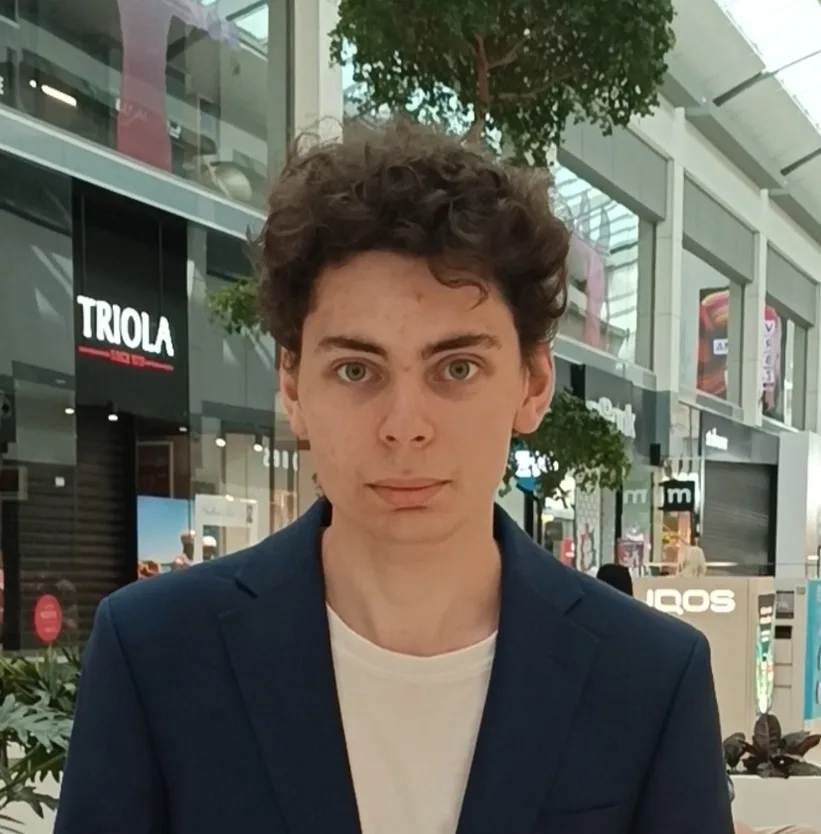
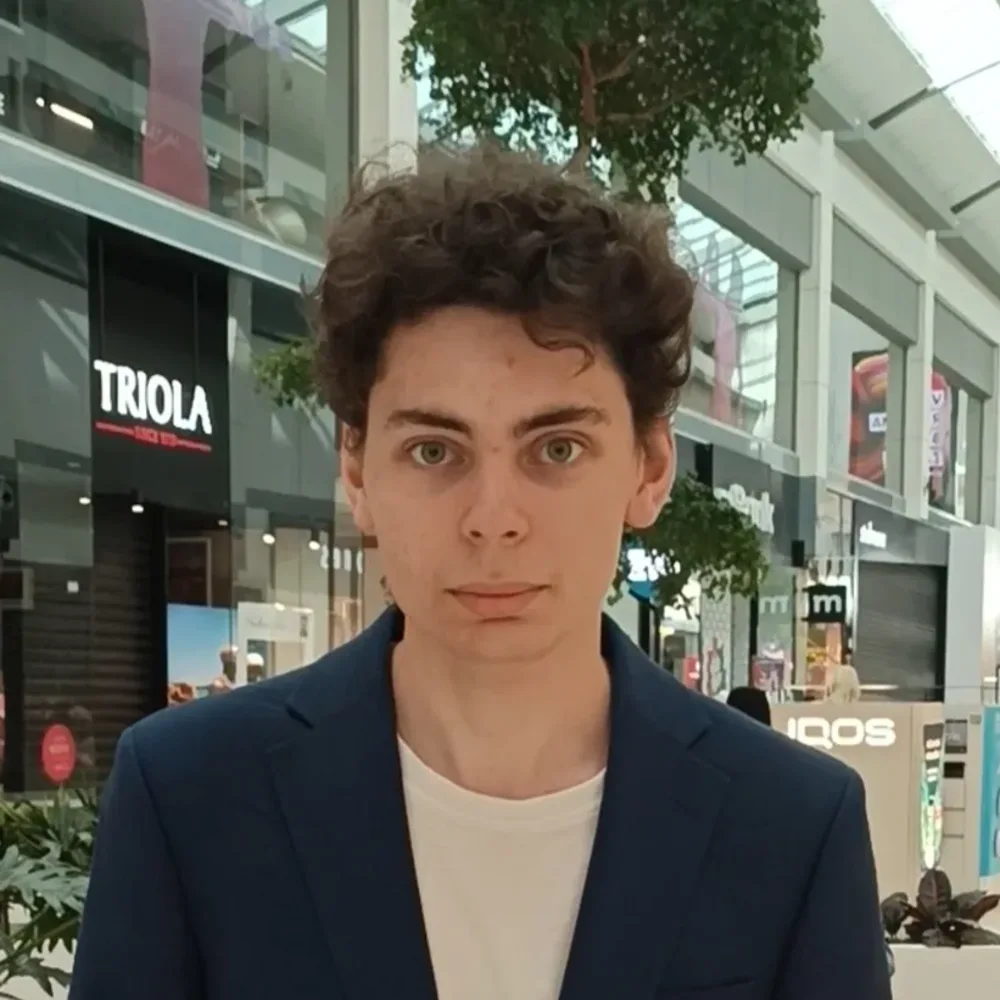
fix(team): align bios and improve photo crops
- keep bio previews at a consistent four-line height
- add expand/collapse behavior for longer bios
- recrop team photos to keep faces visible
- add optimized WebP crops for Jakub and Vali

diff --git a/assets/css/styles.css b/assets/css/styles.css
@@ -327,7 +327,38 @@ section { padding: clamp(50px, 7vw, 84px) 0; }
 .member .body { padding: 22px 22px 26px; }
 .member h4 { font-size: 1.15rem; margin-bottom: .2em; }
 .member .role { color: var(--coral); font-weight: 600; font-size: .82rem; text-transform: uppercase; letter-spacing: .05em; margin-bottom: 12px; }
-.member p { color: var(--muted); font-size: .92rem; margin: 0; }
+.member p {
+  color: var(--muted);
+  font-size: .92rem;
+  margin: 0;
+  min-height: calc(4 * 1.6em);
+}
+
+/* Long bios collapse to 4 lines with a "show more" toggle (added by JS only for long texts) */
+.member .body.has-toggle p {
+  display: -webkit-box;
+  -webkit-box-orient: vertical;
+  -webkit-line-clamp: 4;
+  overflow: hidden;
+}
+.member .body.has-toggle.open p {
+  display: block;
+  min-height: 0;
+  -webkit-line-clamp: unset;
+}
+.bio-toggle {
+  margin-top: 12px;
+  padding: 0;
+  border: 0;
+  background: none;
+  font: inherit;
+  font-size: .8rem;
+  font-weight: 600;
+  color: var(--coral);
+  cursor: pointer;
+}
+.bio-toggle::after { content: " ▾"; }
+.member .body.open .bio-toggle::after { content: " ▴"; }
 
 /* ---------- Tips ---------- */
 .tips { max-width: 880px; margin-inline: auto; display: grid; gap: clamp(16px, 2vw, 22px); }

diff --git a/assets/js/script.js b/assets/js/script.js
@@ -131,6 +131,27 @@
     });
   });
 
+  /* ---- Member bio collapse (teachers page) ----
+     Long bios are clamped to 4 lines; a toggle reveals the full text.
+     Short bios are left untouched (no button, no clamping). */
+  var BIO_LIMIT = 300;
+  document.querySelectorAll(".member .body p").forEach(function (p) {
+    if (p.textContent.trim().length <= BIO_LIMIT) return;
+    var card = p.parentElement;
+    card.classList.add("has-toggle");
+    var btn = document.createElement("button");
+    btn.type = "button";
+    btn.className = "bio-toggle";
+    btn.textContent = "Zobrazit více";
+    btn.setAttribute("aria-expanded", "false");
+    btn.addEventListener("click", function () {
+      var isOpen = card.classList.toggle("open");
+      btn.textContent = isOpen ? "Zobrazit méně" : "Zobrazit více";
+      btn.setAttribute("aria-expanded", String(isOpen));
+    });
+    card.appendChild(btn);
+  });
+
   /* ---- Poptávka form (posts to n8n webhook) ---- */
   var WEBHOOK_URL = "https://n8n-production-9b68.up.railway.app/webhook/poptavka";
   var poptavka = document.querySelector("#poptavkaForm");

diff --git a/ucitele.html b/ucitele.html
@@ -77,7 +77,7 @@
         <h2 class="team-section-title reveal">Matematika</h2>
         <div class="team-grid">
           <article class="member reveal">
-            <div class="photo"><img src="assets/img/extra-2.jpg" alt="Valerie Bártů"></div>
+            <div class="photo"><img src="assets/img/teacher-vali.webp" alt="Valerie Bártů"></div>
             <div class="body">
               <h4>Valerie Bártů</h4>
               <div class="role">Lektorka · matematika</div>
@@ -85,7 +85,7 @@
             </div>
           </article>
           <article class="member reveal">
-            <div class="photo"><img src="assets/img/teacher-jakub.jpg" alt="Jakub"></div>
+            <div class="photo"><img src="assets/img/teacher-jakub.webp" alt="Jakub"></div>
             <div class="body">
               <h4>Jakub</h4>
               <div class="role">Lektor · matematika</div>
